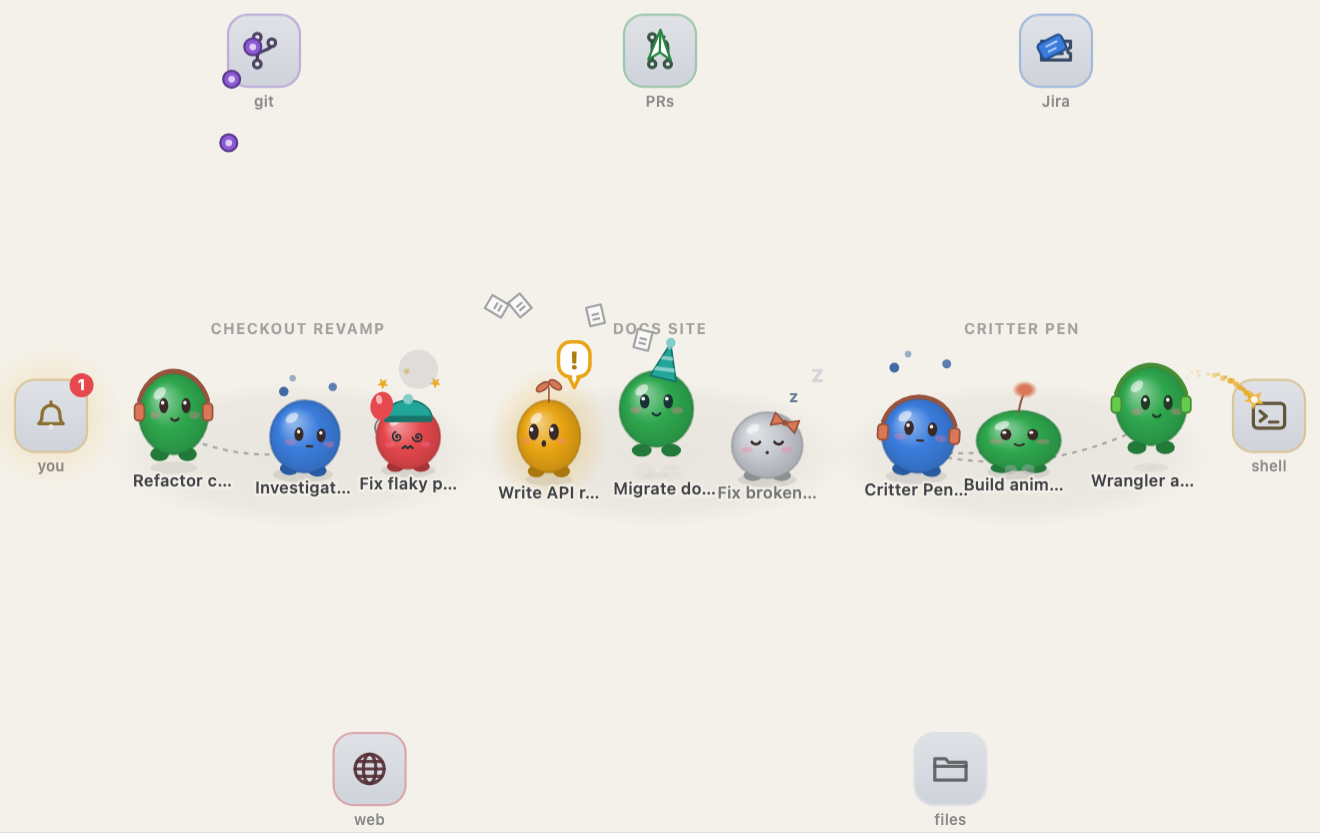
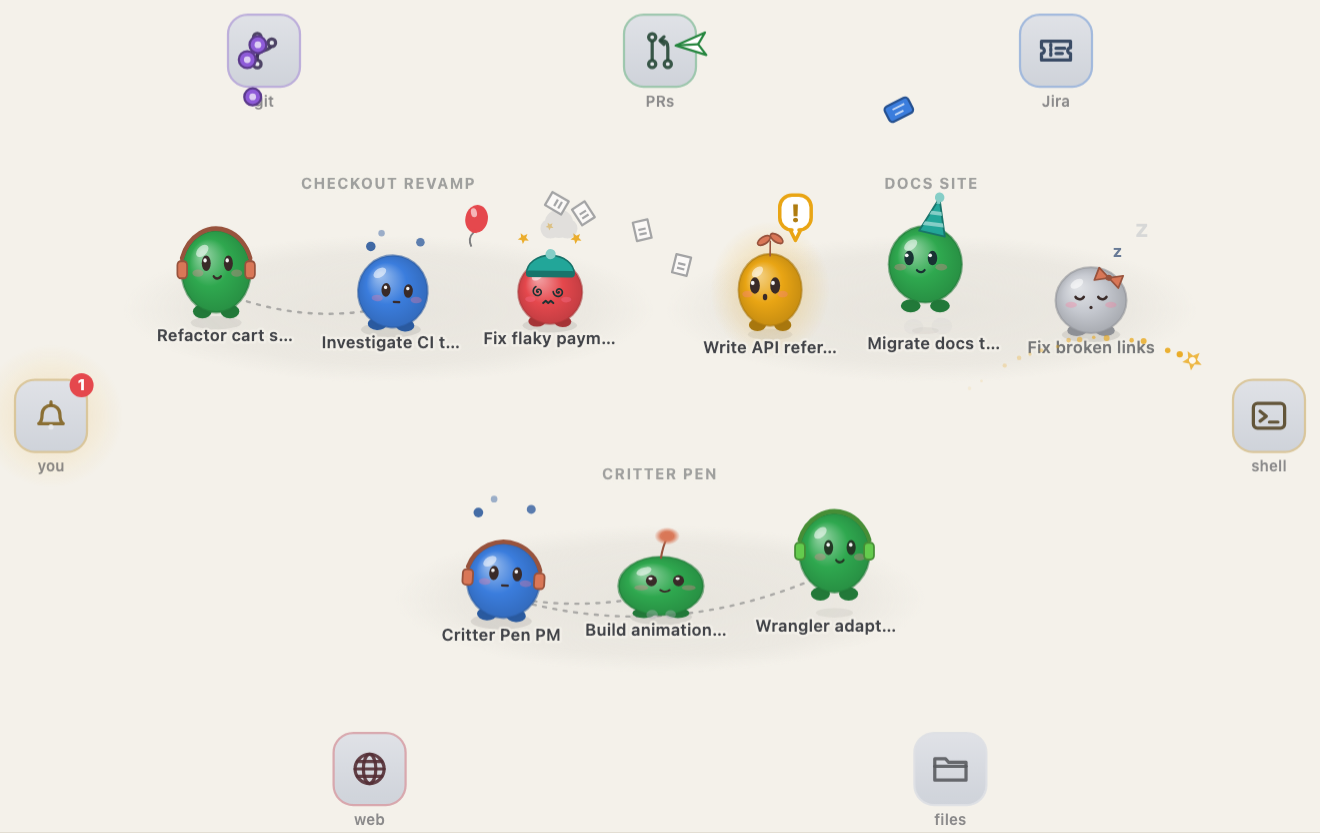
Polish from PM review: label spacing, tray label queue, grid fill
- Layout picks the grid whose cells match the clusters' natural shape, so
  clusters wrap into rows instead of leaving empty bands.
- Less horizontal jitter and label width that accounts for it; hovering a
  critter fades nearby labels (full name is in the tooltip).
- Tray floating labels queue instead of stacking; full pen still stacks.
- Task labels draw above particles/projectiles with a soft halo.

diff --git a/public/engine/pen.js b/public/engine/pen.js
@@ -18,6 +18,7 @@ import {
 const STATUS_BLEND = 0.45; // seconds to cross-fade pose + colour on status change
 const FONT_NAME = '600 11px system-ui, -apple-system, Segoe UI, sans-serif';
 const FONT_TASK = '700 10px system-ui, -apple-system, Segoe UI, sans-serif';
+const FONT_FLOAT = '700 11px system-ui, -apple-system, Segoe UI, sans-serif';
 
 /** Body colour for a status in the current palette. */
 export function statusColor(status, pal) {
@@ -286,10 +287,23 @@ export function createPen(el, opts = {}) {
   }
 
   function floatText(text, x, y, color, dir) {
-    // Stack behind any label still rising from the same spot.
-    const busy = floaters.filter((f) => Math.abs(f.x - x) < 40 && Math.abs(f.y0 - y) < 40 && f.age < 0.9).length;
-    if (busy >= 3) return; // a burst of hits: the pulse says enough
-    floaters.push({ text: String(text).slice(0, 40), x, y: y + dir * busy * 22, y0: y, dir, color, age: 0, dur: 1.9 });
+    text = String(text).slice(0, 40);
+    ctx.font = FONT_FLOAT;
+    const w = ctx.measureText(text).width + 14;
+    const dur = 1.9;
+    // Labels whose pills would overlap this one.
+    const clash = floaters.filter((f) => Math.abs(f.x - x) < (f.w + w) / 2 + 4 && Math.abs(f.y0 - y) < 40 && f.age < f.dur - 0.4);
+    if (layout?.compact) {
+      // No room to stack in the tray: queue behind whatever is showing.
+      const wait = Math.max(0, ...clash.map((f) => f.dur - 0.4 - f.age));
+      if (wait > 2.5) return;
+      floaters.push({ text, w, x, y, y0: y, dir, color, age: -wait, dur });
+    } else {
+      // Stack behind labels still rising from the same spot.
+      const busy = clash.filter((f) => f.age < 0.9).length;
+      if (busy >= 3) return; // a burst of hits: the pulse says enough
+      floaters.push({ text, w, x, y: y + dir * busy * 22, y0: y, dir, color, age: 0, dur });
+    }
     if (floaters.length > 24) floaters.shift();
   }
 
@@ -615,14 +629,6 @@ export function createPen(el, opts = {}) {
       ellipse(ctx, v.cx, v.cy, Math.max(v.rx, v.ry), Math.max(v.rx, v.ry));
       ctx.fill();
       ctx.restore();
-      ctx.font = FONT_TASK;
-      const name = truncateToWidth(v.name.toUpperCase(), v.cell.w - 12, (t) => ctx.measureText(t).width);
-      ctx.textAlign = 'center';
-      ctx.textBaseline = 'bottom';
-      ctx.fillStyle = toCss(pal.fg, 0.38 * v.a);
-      if ('letterSpacing' in ctx) /** @type {any} */ (ctx).letterSpacing = '0.08em';
-      ctx.fillText(name, v.cx, v.labelY);
-      if ('letterSpacing' in ctx) /** @type {any} */ (ctx).letterSpacing = '0px';
     }
 
     // Landmarks.
@@ -676,6 +682,7 @@ export function createPen(el, opts = {}) {
     ctx.restore();
 
     list.sort((a, b) => a.s.y.x - b.s.y.x);
+    const hoverSprite = hovered ? sprites.get(hovered) : null;
     for (const { s, pose, r } of list) {
       const color = currentColor(s);
       const groundY = s.y.x;
@@ -712,14 +719,16 @@ export function createPen(el, opts = {}) {
       }
       ctx.restore();
 
-      // Name label.
+      // Name label (the hovered critter's full name is in the tooltip, and
+      // its neighbours' labels step back so nothing collides).
       if (s.labelFor !== s.data.name + '|' + labelWidth) {
         ctx.font = FONT_NAME;
         s.label = truncateToWidth(s.data.name || s.id, labelWidth, (t) => ctx.measureText(t).width);
         s.labelFor = s.data.name + '|' + labelWidth;
       }
-      if (!layout.compact || hovered === s.id) {
-        haloText(ctx, s.label, s.x.x, groundY + 10, pal, (s.status === 'idle' ? 0.6 : 0.85) * a, FONT_NAME);
+      if (!layout.compact && hovered !== s.id) {
+        const near = hoverSprite && Math.abs(hoverSprite.y.x - groundY) < 30 && Math.abs(hoverSprite.x.x - s.x.x) < labelWidth * 1.5;
+        haloText(ctx, s.label, s.x.x, groundY + 10, pal, (s.status === 'idle' ? 0.6 : 0.85) * a * (near ? 0.2 : 1), FONT_NAME);
       }
     }
 
@@ -776,13 +785,30 @@ export function createPen(el, opts = {}) {
       }
     }
 
+    // Task labels sit above the debris so a flurry of paper never hides them.
+    ctx.font = FONT_TASK;
+    ctx.textAlign = 'center';
+    ctx.textBaseline = 'bottom';
+    ctx.lineJoin = 'round';
+    ctx.lineWidth = 4;
+    if ('letterSpacing' in ctx) /** @type {any} */ (ctx).letterSpacing = '0.08em';
+    for (const v of clusterViz.values()) {
+      const name = truncateToWidth(v.name.toUpperCase(), v.cell.w - 12, (t) => ctx.measureText(t).width);
+      ctx.strokeStyle = toCss(pal.bg, 0.6 * v.a);
+      ctx.strokeText(name, v.cx, v.labelY);
+      ctx.fillStyle = toCss(pal.fg, 0.4 * v.a);
+      ctx.fillText(name, v.cx, v.labelY);
+    }
+    if ('letterSpacing' in ctx) /** @type {any} */ (ctx).letterSpacing = '0px';
+
     // Floating labels.
     for (const f of floaters) {
+      if (f.age < 0) continue;
       const k = f.age / f.dur;
       const a = k < 0.12 ? k / 0.12 : k > 0.7 ? (1 - k) / 0.3 : 1;
       const y = clamp(f.y + (reduced ? 0 : f.dir * ease.outCubic(k) * 26), 12, H - 12);
-      ctx.font = '700 11px system-ui, -apple-system, Segoe UI, sans-serif';
-      const w = ctx.measureText(f.text).width + 14;
+      ctx.font = FONT_FLOAT;
+      const w = f.w;
       const x = clamp(f.x, w / 2 + 2, W - w / 2 - 2);
       ctx.fillStyle = toCss(pal.dark ? lighten(pal['surface-2'], 0.08) : { r: 255, g: 255, b: 255, a: 1 }, 0.95 * a);
       roundRect(ctx, x - w / 2, y - 10, w, 20, 10);

diff --git a/public/engine/layout.js b/public/engine/layout.js
@@ -57,6 +57,7 @@ export function landmarkSlots(w, h) {
 }
 
 const TASK_LABEL_H = 18;
+const JITTER_X = 0.24; // total horizontal jitter, as a fraction of radius
 const NAME_LABEL_H = 16;
 
 /** Horizontal / vertical spacing between critters of radius r. */
@@ -128,15 +129,21 @@ export function groupByTask(critters) {
  */
 export function chooseGrid(counts, W, H, maxR = 24) {
   const n = counts.length;
-  let best = { cols: 1, rows: n, r: -1, sq: -1 };
+  let best = { cols: 1, rows: n, r: -1, miss: Infinity };
   for (let cols = 1; cols <= n; cols++) {
     const rows = Math.ceil(n / cols);
     const cw = W / cols, ch = H / rows;
-    const r = Math.min(...counts.map((k) => fitCluster(k, cw, ch, maxR).r));
-    // Ties (radius is capped) go to the most square cells, which spreads
-    // clusters across the pen instead of stacking them in one column.
-    const sq = Math.min(cw, ch);
-    if (r > best.r || (r === best.r && sq > best.sq)) best = { cols, rows, r, sq };
+    const fits = counts.map((k) => fitCluster(k, cw, ch, maxR));
+    const r = Math.min(...fits.map((f) => f.r));
+    // The radius is capped, so many grids tie. Among those, prefer cells whose
+    // shape matches the clusters' natural shape: that fills the pen in both
+    // directions instead of leaving a band of empty space.
+    const miss = fits.reduce((sum, f) => {
+      const sp = spacingFor(f.r);
+      const aspect = (f.cols * sp.col) / (f.rows * sp.row + TASK_LABEL_H + f.r * 1.6);
+      return sum + Math.abs(Math.log((cw / ch) / aspect));
+    }, 0) / n;
+    if (r > best.r + 0.01 || (Math.abs(r - best.r) <= 0.01 && miss < best.miss)) best = { cols, rows, r, miss };
   }
   return { cols: best.cols, rows: best.rows, r: best.r };
 }
@@ -203,7 +210,7 @@ export function computeLayout({ width, height, critters }) {
       const inRow = Math.min(fit.cols, ordered.length - rIdx * fit.cols);
       const rowLeft = left + ((fit.cols - inRow) * colSp) / 2;
       const h = hash32(c.id);
-      const jx = (((h & 0xff) / 255) - 0.5) * fit.r * 0.5;
+      const jx = (((h & 0xff) / 255) - 0.5) * fit.r * JITTER_X;
       const jy = ((((h >>> 8) & 0xff) / 255) - 0.5) * fit.r * 0.35;
       slots.set(c.id, {
         x: rowLeft + colSp * ((i % fit.cols) + 0.5) + jx,
@@ -212,7 +219,8 @@ export function computeLayout({ width, height, critters }) {
       });
     });
     radius = Math.min(radius, fit.r);
-    labelWidth = Math.min(labelWidth, colSp - 6);
+    // Neighbours can jitter toward each other; keep their labels apart.
+    labelWidth = Math.min(labelWidth, colSp - 8 - fit.r * JITTER_X);
     clusters.push({
       taskId: g.taskId, taskName: g.taskName,
       cell: { x: cx0, y: cy0, w: cw, h: ch },

diff --git a/public/engine/test/layout.test.js b/public/engine/test/layout.test.js
@@ -43,9 +43,29 @@ test('fitCluster shrinks critters as the crowd grows', () => {
   assert.ok(fitCluster(50, 50, 50).r >= 7, 'never below the minimum');
 });
 
-test('chooseGrid spreads clusters instead of stacking them', () => {
-  assert.ok(chooseGrid([3, 3, 3], 1200, 700).cols >= 2);
-  assert.equal(chooseGrid([3, 3, 3], 300, 1400).cols, 1);
+test('chooseGrid uses both directions instead of one long band', () => {
+  // A typical full pen: three small clusters should wrap, not sit in one row.
+  const wide = chooseGrid([3, 3, 3], 1100, 560, 30);
+  assert.ok(wide.cols >= 2 && wide.rows >= 2, JSON.stringify(wide));
+  // Tall and narrow: stacks vertically.
+  const tall = chooseGrid([3, 3, 3], 300, 1400);
+  assert.ok(tall.rows >= 2 && tall.rows >= tall.cols, JSON.stringify(tall));
+  // Very wide and short: a single row.
+  assert.equal(chooseGrid([3, 3, 3], 1800, 260).rows, 1);
+});
+
+test('neighbouring name labels never overlap', () => {
+  for (const [w, h, n] of [[1200, 760, 9], [700, 900, 14], [1400, 500, 24]]) {
+    const critters = Array.from({ length: n }, (_, i) => crit(`c${i}`, `t${i % 3}`));
+    const L = computeLayout({ width: w, height: h, critters });
+    const pts = [...L.slots.values()];
+    for (let i = 0; i < pts.length; i++) {
+      for (let j = i + 1; j < pts.length; j++) {
+        if (Math.abs(pts[i].y - pts[j].y) > pts[i].r) continue; // different rows
+        assert.ok(Math.abs(pts[i].x - pts[j].x) >= L.labelWidth + 4, `${w}x${h}: labels ${i},${j} collide`);
+      }
+    }
+  }
 });
 
 test('computeLayout places every critter once, inside its cell, without overlaps', () => {
